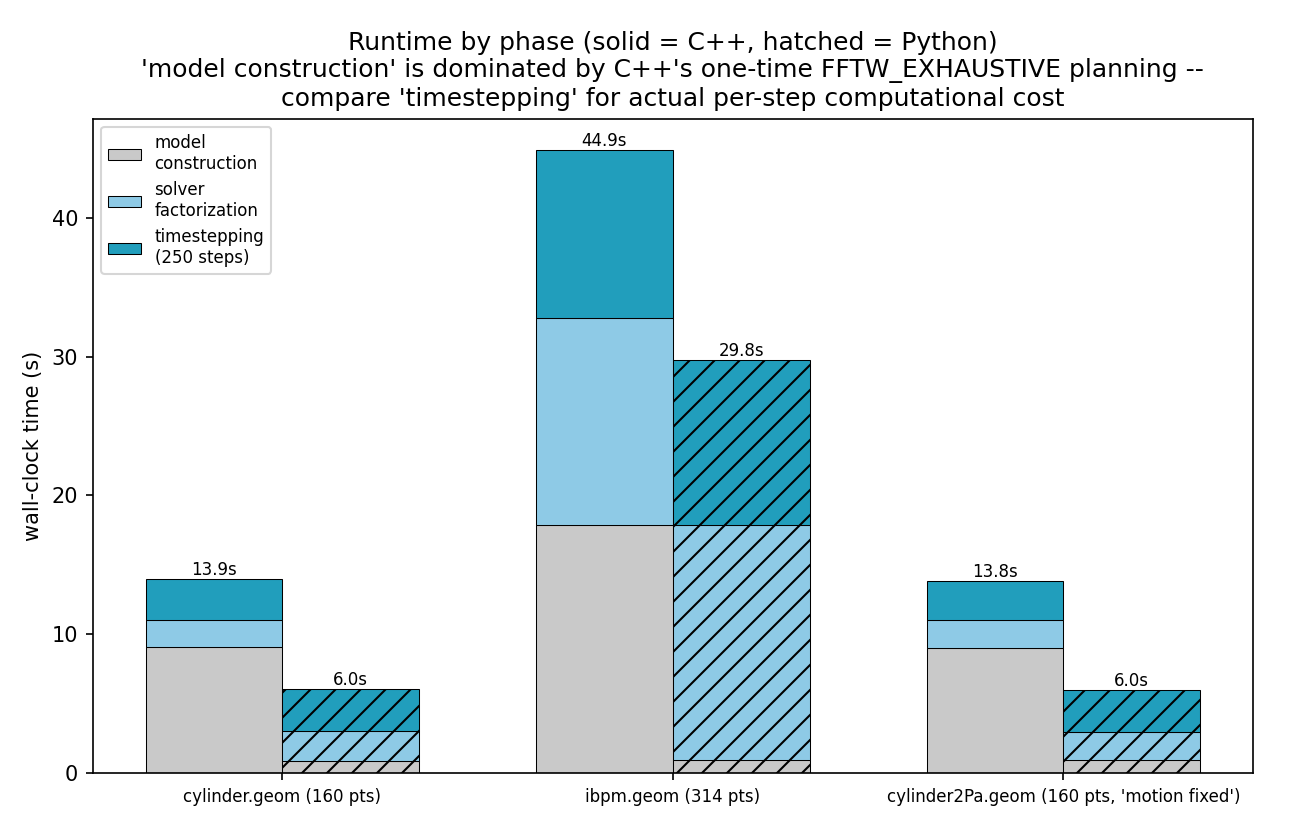
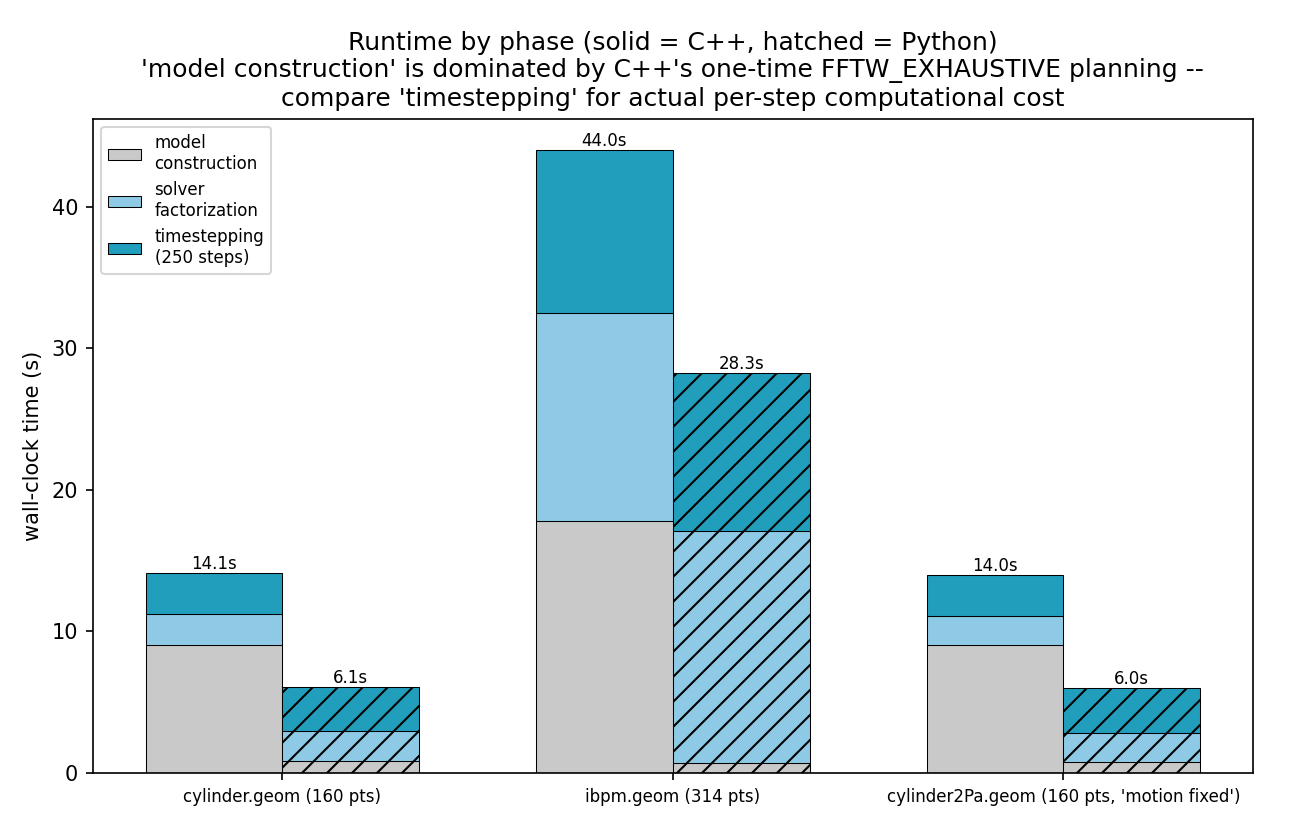
Fix stale docs claiming PitchPlunge/etc. motion classes are unported
py/fixed_position.py's module docstring, and the excluded-case reason in
results/generate_validation_report.py (+ results/README.md), still said
FixedVelocity/PitchPlunge/SigmoidalStep/LagStep1/LagStep2/EldredgeManeuver/
EldredgeCombined2/Eldredge1/Eldredge2/MotionFile/MotionFilePeriodic were
unported and that RigidBody.load() raised NotImplementedError for them.
That was true when fixed_position.py was first written, but an earlier
commit (61e51a4, "Port remaining Motion subclasses to Python") ported all
11 and wired them into RigidBody.load()'s dispatch -- the docstring just
never got updated to match.

Independently re-verified before touching anything: a dedicated review
pass comparing all 11 files line-by-line against src/*.h found zero
correctness bugs (it also confirmed the port correctly and deliberately
preserves two real oddities of the original C++ -- Eldredge2's leftover
debug cout statements, and EldredgeCombined2's _maxGb using the wrong
parameter in one term -- rather than silently "fixing" either). Separately
functional-tested all 11 classes directly (finite output over a time
sweep, clone() round-trips, and a hand-computed MotionFile/
MotionFilePeriodic piecewise-linear interpolation check) with no
discrepancies.

benchmarking/cylinder2PaPlunge.geom is still excluded from the validation
report, but the reason changes: it's a malformed geometry file (its
`motion PitchPlunge` line supplies 4 of 6 required parameters), not a
[…]

diff --git a/py/fixed_position.py b/py/fixed_position.py
@@ -5,20 +5,19 @@
 # Subclass of Motion, for a stationary body: specifies the location of the
 # center of the body, and an angle of rotation about the center.
 #
-# NOTE(port): FixedPosition is the only Motion subclass ported here. It is
-# ported because it is the minimal concrete Motion needed to exercise
+# NOTE(port): FixedPosition was originally the only Motion subclass ported
+# here, because it is the minimal concrete Motion needed to exercise
 # RigidBody's motion machinery (setMotion/getMotion/moveBody) and because
 # RigidBody::load()'s "motion fixed x y theta" command is documented
-# directly in RigidBody.h's own docstring. The C++ codebase has ~10 other
-# Motion subclasses (FixedVelocity, PitchPlunge, SigmoidalStep, LagStep1/2,
-# EldredgeManeuver/Combined2/1/2, MotionFile, MotionFilePeriodic) that are
+# directly in RigidBody.h's own docstring. The remaining ~10 Motion
+# subclasses (FixedVelocity, PitchPlunge, SigmoidalStep, LagStep1/2,
+# EldredgeManeuver/Combined2/1/2, MotionFile, MotionFilePeriodic), which are
 # only reachable through RigidBody::load()'s "motion <type> ..." command
-# parser, not through any other public entry point of RigidBody/Geometry.
-# Per the porting scope ("only port other files when there are
-# dependencies"), those are treated as optional plugins of the config-file
-# parser rather than hard dependencies of RigidBody/Geometry, and are left
-# unported; RigidBody.load() raises NotImplementedError with a clear
-# message if one of those motion types is requested (see rigid_body.py).
+# parser, have since been ported too (see fixed_velocity.py, pitch_plunge.py,
+# sigmoidal_step.py, lag_step1.py, lag_step2.py, eldredge_maneuver.py,
+# eldredge_combined2.py, eldredge1.py, eldredge2.py, motion_file.py,
+# motion_file_periodic.py). RigidBody.load()'s "motion <type> ..." dispatch
+# now fully constructs every one of them; none raise NotImplementedError.
 
 from __future__ import annotations
 

diff --git a/results/generate_validation_report.py b/results/generate_validation_report.py
@@ -34,10 +34,10 @@ runtime (not silently skipped):
                                       which cylinder.geom does not)
   - benchmarking/cylinder2PaPlunge.geom -- EXCLUDED. Its "motion PitchPlunge
     0 0 0.5 0.2" line only supplies 4 of PitchPlunge's 6 required
-    parameters (a malformed file, not a porting artifact), AND PitchPlunge
-    motion itself is not yet ported to Python (see py/fixed_position.py's
-    module docstring for why). Geometry.load() returns False for this file
-    in the Python port; it cannot currently be run for comparison.
+    parameters -- a malformed file (PitchPlunge motion itself is ported;
+    see py/pitch_plunge.py). Geometry.load() returns False for this file
+    in both the Python port and (independently checked) the C++ code; it
+    cannot currently be run for comparison in either implementation.
 
 A note on runtime
 ------------------
@@ -142,9 +142,12 @@ CASES = [
 EXCLUDED_CASES = [
     dict(name="cylinder2paplunge", geom="benchmarking/cylinder2PaPlunge.geom",
          reason="'motion PitchPlunge 0 0 0.5 0.2' supplies only 4 of the 6 "
-                "parameters PitchPlunge requires (a malformed file), and "
-                "PitchPlunge motion is not yet ported to Python -- "
-                "Geometry.load() returns False for this file in py/. "
+                "parameters PitchPlunge requires -- a malformed file "
+                "(PitchPlunge motion itself is ported; see py/pitch_plunge.py). "
+                "Geometry.load() returns False for this file in BOTH "
+                "implementations (build/ibpm also fails to parse it and exits "
+                "nonzero, independently verified) -- not a Python-vs-C++ "
+                "discrepancy, the file just can't be run by either program. "
                 "Not run."),
 ]
 

diff --git a/results/README.md b/results/README.md
@@ -26,7 +26,7 @@ reported by the script, not silently skipped):
 | `cylinder` | `examples/cylinder.geom` | 160 | 200x200 | 0.02 | the standard example distributed with this project |
 | `ibpm_geom` | `ibpm.geom` | 314 | 400x400 | 0.01 | a finer boundary, originally sized to match a Fortran reference case |
 | `cylinder2pa` | `benchmarking/cylinder2Pa.geom` | 160 | 200x200 | 0.02 | same body as `cylinder.geom`, but with an explicit `motion fixed 0 0 0` command — exercises `RigidBody`'s motion-parsing code path, which `cylinder.geom` doesn't |
-| ~~`cylinder2paplunge`~~ | `benchmarking/cylinder2PaPlunge.geom` | — | — | — | **excluded**: its `motion PitchPlunge 0 0 0.5 0.2` line supplies only 4 of PitchPlunge's 6 required parameters (a malformed file, not a porting issue), and PitchPlunge motion itself isn't ported to Python yet (see `py/fixed_position.py`'s module docstring). `Geometry.load()` returns `False` for this file in `py/` — it currently cannot be run through the Python port at all. |
+| ~~`cylinder2paplunge`~~ | `benchmarking/cylinder2PaPlunge.geom` | — | — | — | **excluded**: its `motion PitchPlunge 0 0 0.5 0.2` line supplies only 4 of PitchPlunge's 6 required parameters — a malformed file (PitchPlunge motion itself is ported; see `py/pitch_plunge.py`). `Geometry.load()` returns `False` for this file in **both** implementations (independently verified: `build/ibpm` also fails to parse it and exits with a nonzero status) — it isn't a Python-vs-C++ discrepancy, the file just can't be run by either program. |
 
 All three valid cases use Re=100, RK3 timestepping, 250 steps, run from a
 zero initial condition. `ibpm.geom` uses `dt=0.01` instead of `0.02`
